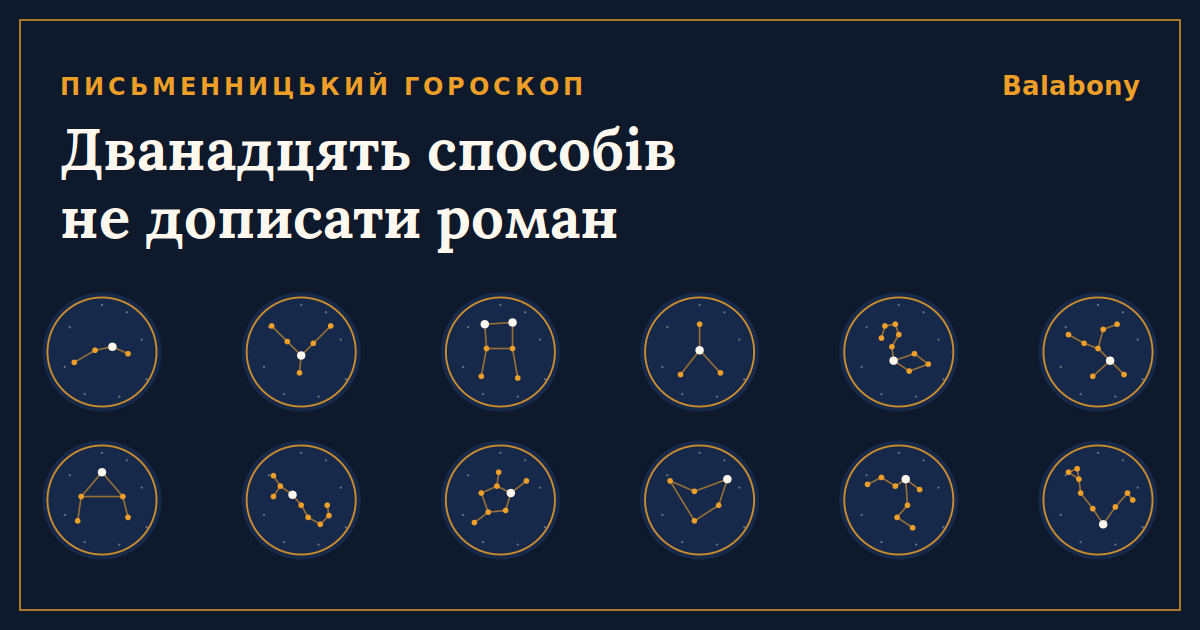
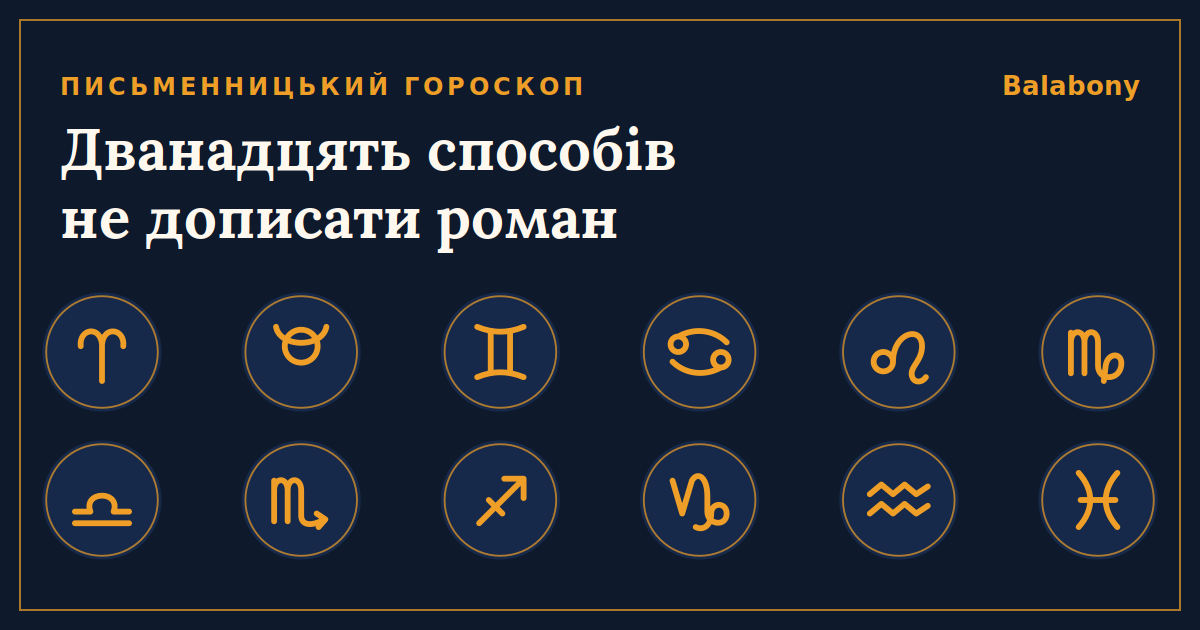
design(horoskop): drawn zodiac glyphs, highlighted challenge, explained work picks

diff --git a/app/pysmennytskyi-horoskop/ZodiacBadge.tsx b/app/pysmennytskyi-horoskop/ZodiacBadge.tsx
@@ -1,48 +1,40 @@
 // FILE: app/pysmennytskyi-horoskop/ZodiacBadge.tsx
-// Фірмові значки знаків: стилізоване сузір'я золотом на навій, як обкладинка
-// BrandCover. Навмисно SVG, а не символи ♈…♓: на телефонах ті символи
-// малюються кольоровими емодзі й ламають стиль. Сузір'я спрощені, не
-// астрономічна карта. aria-hidden, бо назва знака стоїть у заголовку поруч.
+// Фірмові значки знаків: астрологічний знак, намальований золотою лінією на
+// навії печатці (кольори BrandCover). Редакція 18.09.2026: сузір'я з крапок
+// Богдан забракував як некрасиві, тепер — самі знаки, намальовані вручну.
+// Навмисно SVG-лінії, а не символи ♈…♓: на телефонах ті символи
+// малюються кольоровими емодзі й ламають стиль.
+// aria-hidden, бо назва знака стоїть у заголовку поруч.
 
-type P = [number, number]
-type Shape = { stars: P[]; lines: [number, number][]; bright?: number[] }
-
-const SHAPES: Record<string, Shape> = {
-  oven: { stars: [[18, 62], [42, 48], [62, 44], [80, 52]], lines: [[0, 1], [1, 2], [2, 3]], bright: [2] },
-  telets: { stars: [[16, 20], [34, 38], [50, 54], [64, 40], [84, 20], [48, 74]], lines: [[0, 1], [1, 2], [2, 3], [3, 4], [2, 5]], bright: [2] },
-  bliznyuky: { stars: [[32, 18], [34, 46], [28, 78], [64, 16], [64, 46], [70, 80]], lines: [[0, 1], [1, 2], [3, 4], [4, 5], [0, 3], [1, 4]], bright: [0, 3] },
-  rak: { stars: [[50, 18], [50, 48], [28, 76], [74, 74]], lines: [[0, 1], [1, 2], [1, 3]], bright: [1] },
-  lev: { stars: [[30, 34], [34, 20], [46, 18], [50, 30], [42, 44], [44, 60], [68, 52], [84, 64], [62, 72]], lines: [[0, 1], [1, 2], [2, 3], [3, 4], [4, 5], [5, 6], [6, 7], [7, 8], [8, 5]], bright: [5] },
-  diva: { stars: [[16, 30], [34, 40], [50, 46], [64, 60], [80, 76], [56, 24], [72, 18], [44, 78]], lines: [[0, 1], [1, 2], [2, 3], [3, 4], [2, 5], [5, 6], [3, 7]], bright: [3] },
-  terezy: { stars: [[50, 18], [26, 46], [74, 46], [22, 74], [80, 70]], lines: [[0, 1], [0, 2], [1, 2], [1, 3], [2, 4]], bright: [0] },
-  skorpion: { stars: [[18, 22], [26, 34], [18, 46], [40, 44], [50, 56], [58, 70], [72, 78], [82, 68], [80, 56]], lines: [[0, 1], [1, 2], [1, 3], [3, 4], [4, 5], [5, 6], [6, 7], [7, 8]], bright: [3] },
-  strilets: { stars: [[28, 42], [46, 34], [62, 42], [56, 62], [36, 64], [80, 28], [48, 18], [20, 76]], lines: [[0, 1], [1, 2], [2, 3], [3, 4], [4, 0], [2, 5], [1, 6], [4, 7]], bright: [2] },
-  kozorih: { stars: [[16, 28], [44, 40], [82, 26], [72, 56], [44, 74]], lines: [[0, 1], [1, 2], [2, 3], [3, 4], [4, 0]], bright: [2] },
-  vodoliy: { stars: [[14, 32], [30, 24], [46, 34], [58, 26], [74, 38], [60, 56], [48, 70], [66, 82]], lines: [[0, 1], [1, 2], [2, 3], [3, 4], [3, 5], [5, 6], [6, 7]], bright: [3] },
-  ryby: { stars: [[16, 18], [26, 14], [28, 26], [30, 42], [44, 60], [56, 78], [70, 58], [84, 42], [90, 50]], lines: [[0, 1], [1, 2], [2, 0], [2, 3], [3, 4], [4, 5], [5, 6], [6, 7], [7, 8]], bright: [5] },
+const GLYPHS: Record<string, string> = {
+  oven: 'M28 44 C26 26 48 22 50 42 M72 44 C74 26 52 22 50 42 M50 42 L50 80',
+  telets: 'M24 24 C28 46 72 46 76 24 M50 44 m-17 0 a17 17 0 1 0 34 0 a17 17 0 1 0 -34 0',
+  bliznyuky: 'M26 24 Q50 34 74 24 M26 76 Q50 66 74 76 M40 30 L40 70 M60 30 L60 70',
+  rak: 'M28 42 m-8 0 a8 8 0 1 0 16 0 a8 8 0 1 0 -16 0 M28 34 C46 24 66 28 78 40 M72 58 m-8 0 a8 8 0 1 0 16 0 a8 8 0 1 0 -16 0 M72 66 C54 76 34 72 22 60',
+  lev: 'M34 60 m-10 0 a10 10 0 1 0 20 0 a10 10 0 1 0 -20 0 M44 60 C44 30 74 22 74 44 C74 60 60 66 64 76 C66 82 74 82 78 76',
+  diva: 'M22 30 L22 72 M22 40 C22 26 36 26 36 40 L36 72 M36 40 C36 26 50 26 50 40 L50 64 C50 80 72 80 74 64 C76 50 60 50 58 64 L56 80',
+  terezy: 'M22 74 L78 74 M22 62 L38 62 C30 40 70 40 62 62 L78 62',
+  skorpion: 'M22 30 L22 72 M22 40 C22 26 36 26 36 40 L36 72 M36 40 C36 26 50 26 50 40 L50 66 C50 76 60 78 74 70 M66 64 L75 70 L68 78',
+  strilets: 'M28 74 L74 28 M54 28 L74 28 L74 48 M38 50 L52 64',
+  kozorih: 'M22 30 L32 64 L42 30 C48 20 58 26 58 46 L58 62 C58 76 78 78 78 64 C78 52 62 52 62 64 C62 76 54 82 46 78',
+  vodoliy: 'M20 44 L32 34 L44 44 L56 34 L68 44 L80 36 M20 64 L32 54 L44 64 L56 54 L68 64 L80 56',
+  ryby: 'M30 22 C46 40 46 60 30 78 M70 22 C54 40 54 60 70 78 M32 50 L68 50',
 }
 
-// Тло: кілька тьмяних зірок у сталих місцях, однакові для всіх знаків.
-const DUST: P[] = [[24, 30], [70, 18], [82, 40], [20, 62], [36, 84], [64, 86], [86, 72], [50, 12]]
+// Кілька тьмяних зірок на тлі, однакові для всіх знаків.
+const DUST: [number, number][] = [[20, 32], [80, 24], [86, 60], [16, 66], [30, 86], [70, 88], [50, 10]]
 
 export default function ZodiacBadge({ sign, size = 64 }: { sign: string; size?: number }) {
-  const s = SHAPES[sign]
-  if (!s) return null
-  // Сузір'я малюється в квадраті 0–100 і стискається в коло з полями.
-  const t = (v: number) => 15 + v * 0.7
+  const d = GLYPHS[sign]
+  if (!d) return null
   return (
     <svg width={size} height={size} viewBox="0 0 100 100" aria-hidden="true" focusable="false" style={{ flexShrink: 0, display: "block" }}>
       <circle cx="50" cy="50" r="48" fill="#0E1A2B" />
-      <circle cx="50" cy="50" r="44" fill="none" stroke="#EF9F27" strokeWidth="1.5" opacity="0.85" />
-      {DUST.map(([x, y], i) => <circle key={`d${i}`} cx={x} cy={y} r="0.9" fill="#FFF8EE" opacity="0.35" />)}
-      {s.lines.map(([a, b], i) => (
-        <line key={i} x1={t(s.stars[a][0])} y1={t(s.stars[a][1])} x2={t(s.stars[b][0])} y2={t(s.stars[b][1])}
-          stroke="#EF9F27" strokeWidth="1.3" strokeLinecap="round" opacity="0.55" />
-      ))}
-      {s.stars.map(([x, y], i) => {
-        const big = s.bright?.includes(i)
-        return <circle key={i} cx={t(x)} cy={t(y)} r={big ? 3.4 : 2.3} fill={big ? "#FFF8EE" : "#EF9F27"} />
-      })}
+      <circle cx="50" cy="50" r="45" fill="none" stroke="#EF9F27" strokeWidth="1.5" opacity="0.6" />
+      {DUST.map(([x, y], i) => <circle key={i} cx={x} cy={y} r="0.9" fill="#FFF8EE" opacity="0.4" />)}
+      <g transform="translate(50 50) scale(0.78) translate(-50 -50)">
+        <path d={d} fill="none" stroke="#EF9F27" strokeWidth="6" strokeLinecap="round" strokeLinejoin="round" />
+      </g>
     </svg>
   )
 }

diff --git a/app/pysmennytskyi-horoskop/page.tsx b/app/pysmennytskyi-horoskop/page.tsx
@@ -158,6 +158,12 @@ const SIGNS: Sign[] = [
 ];
 
 const GOLD = "#B5710C";
+const GOLD_BRIGHT = "#EF9F27";
+const SERIF = "'Lora', Georgia, serif";
+const capsLabel: React.CSSProperties = {
+  display: "block", fontSize: 11.5, fontWeight: 800, letterSpacing: "1.4px",
+  textTransform: "uppercase", color: "#8a5a10", margin: "0 0 4px",
+};
 
 // Розмітка статті. Даних про людей тут немає — лише сам матеріал.
 const JSON_LD = {
@@ -173,7 +179,6 @@ const JSON_LD = {
   publisher: { "@type": "Organization", name: "Balabony", url: "https://balabony.com" },
   about: SIGNS.map(s => ({ "@type": "Thing", name: `${s.name} (${s.dates})` })),
 };
-const label: React.CSSProperties = { fontWeight: 700, color: "#1c1917" };
 const pStyle: React.CSSProperties = { margin: "0 0 12px" };
 const navLink: React.CSSProperties = {
   display: "inline-block", padding: "6px 10px", margin: "0 6px 8px 0",
@@ -203,7 +208,12 @@ export default function HoroskopPage() {
         </p>
         <p style={pStyle}>
           Зорі на ваш текст не впливають. А от звички впливають, і вони в кожного свої. Знайдіть свій знак,
-          впізнайте себе, прийміть виклик, а заодно прочитайте, як із ним упоралися автори Balabony.
+          впізнайте себе й прийміть виклик.
+        </p>
+        <p style={{ ...pStyle, fontSize: 15, color: "#57534e" }}>
+          Під кожним знаком ми поставили один твір із каталогу Balabony. Його дібрано за темою виклику,
+          а не за днем народження автора: прочитайте, як про це пише хтось із наших авторів, а тоді
+          спробуйте самі.
         </p>
 
         <nav aria-label="Знаки зодіаку" style={{ margin: "20px 0 8px" }}>
@@ -215,26 +225,54 @@ export default function HoroskopPage() {
         </nav>
 
         {SIGNS.map(s => (
-          <section key={s.id} id={s.id} style={{ marginTop: 36, paddingTop: 24, borderTop: "1px solid #e2d9c8", scrollMarginTop: 80 }}>
-            <div style={{ display: "flex", alignItems: "center", gap: 16, margin: "0 0 14px" }}>
-              <ZodiacBadge sign={s.id} size={72} />
-              <div>
-                <h2 style={{ fontSize: 24, fontWeight: 700, color: "#1c1917", margin: "0 0 2px" }}>{s.name}</h2>
-                <p style={{ margin: 0, fontSize: 14, color: "#78716c" }}>
-                  {s.dates} · <em>{s.motto}</em>
+          <section key={s.id} id={s.id} style={{ marginTop: 40, paddingTop: 28, borderTop: "1px solid #e2d9c8", scrollMarginTop: 80 }}>
+            <div style={{ display: "flex", alignItems: "center", gap: 18, margin: "0 0 16px" }}>
+              <ZodiacBadge sign={s.id} size={84} />
+              <div style={{ minWidth: 0 }}>
+                <h2 style={{ fontFamily: SERIF, fontSize: 30, fontWeight: 700, color: "#1c1917", margin: 0, lineHeight: 1.15 }}>{s.name}</h2>
+                <p style={{ margin: "4px 0 0", fontSize: 13, letterSpacing: "0.6px", textTransform: "uppercase", color: "#78716c" }}>
+                  {s.dates}
                 </p>
               </div>
             </div>
-            <p style={pStyle}>{s.portrait}</p>
-            <p style={pStyle}><span style={label}>Виклик:</span> {s.challenge}</p>
-            <p style={pStyle}><span style={label}>Під цим знаком народилися:</span> {s.born}</p>
-            <p style={pStyle}><span style={label}>Був випадок.</span> {s.story}</p>
-            <p style={{ margin: 0 }}>
-              <span style={label}>Почитати:</span>{" "}
-              <a href={`/stories/${s.work.slug}`} style={{ color: GOLD, fontWeight: 700 }}>
-                «{s.work.title}»
-              </a>{" "}
-              — <a href={`/avtor/${authorSlug(s.work.author)}`} style={{ color: "#292524" }}>{s.work.author}</a>
+
+            <p style={{ margin: "0 0 12px", fontSize: 15, fontWeight: 700, color: GOLD }}>{s.motto}</p>
+
+            <p style={{ margin: "0 0 18px", fontFamily: SERIF, fontSize: 18.5, lineHeight: 1.7, color: "#1c1917" }}>
+              {s.portrait}
+            </p>
+
+            <div style={{ margin: "0 0 18px", padding: "14px 18px", background: "#fbecd0", borderLeft: `4px solid ${GOLD_BRIGHT}`, borderRadius: "0 10px 10px 0" }}>
+              <div style={capsLabel}>Виклик знака</div>
+              <div style={{ fontSize: 17, fontWeight: 600, color: "#1c1917", lineHeight: 1.5 }}>
+                {s.challenge.charAt(0).toUpperCase() + s.challenge.slice(1)}
+              </div>
+            </div>
+
+            <div style={{ margin: "0 0 16px", paddingLeft: 16, borderLeft: "2px solid #d6cdbd" }}>
+              <div style={capsLabel}>Був випадок</div>
+              <p style={{ margin: 0, fontStyle: "italic", color: "#44403c" }}>{s.story}</p>
+            </div>
+
+            <p style={{ margin: "0 0 16px", fontSize: 14.5, color: "#57534e" }}>
+              <span style={{ fontWeight: 700 }}>Під цим знаком народилися:</span> {s.born}
+            </p>
+
+            <a
+              href={`/stories/${s.work.slug}`}
+              style={{
+                display: "block", padding: "14px 18px", background: "#fffaf1",
+                border: "1px solid #e2d9c8", borderRadius: 12, textDecoration: "none", color: "#292524",
+              }}
+            >
+              <span style={capsLabel}>На тему виклику · з каталогу Balabony</span>
+              <span style={{ display: "block", fontFamily: SERIF, fontSize: 20, fontWeight: 700, color: GOLD, margin: "2px 0 2px" }}>
+                «{s.work.title}» →
+              </span>
+              <span style={{ fontSize: 14.5, color: "#57534e" }}>{s.work.author}</span>
+            </a>
+            <p style={{ margin: "6px 0 0", fontSize: 13.5 }}>
+              <a href={`/avtor/${authorSlug(s.work.author)}`} style={{ color: "#78716c" }}>Усі твори автора</a>
             </p>
           </section>
         ))}
